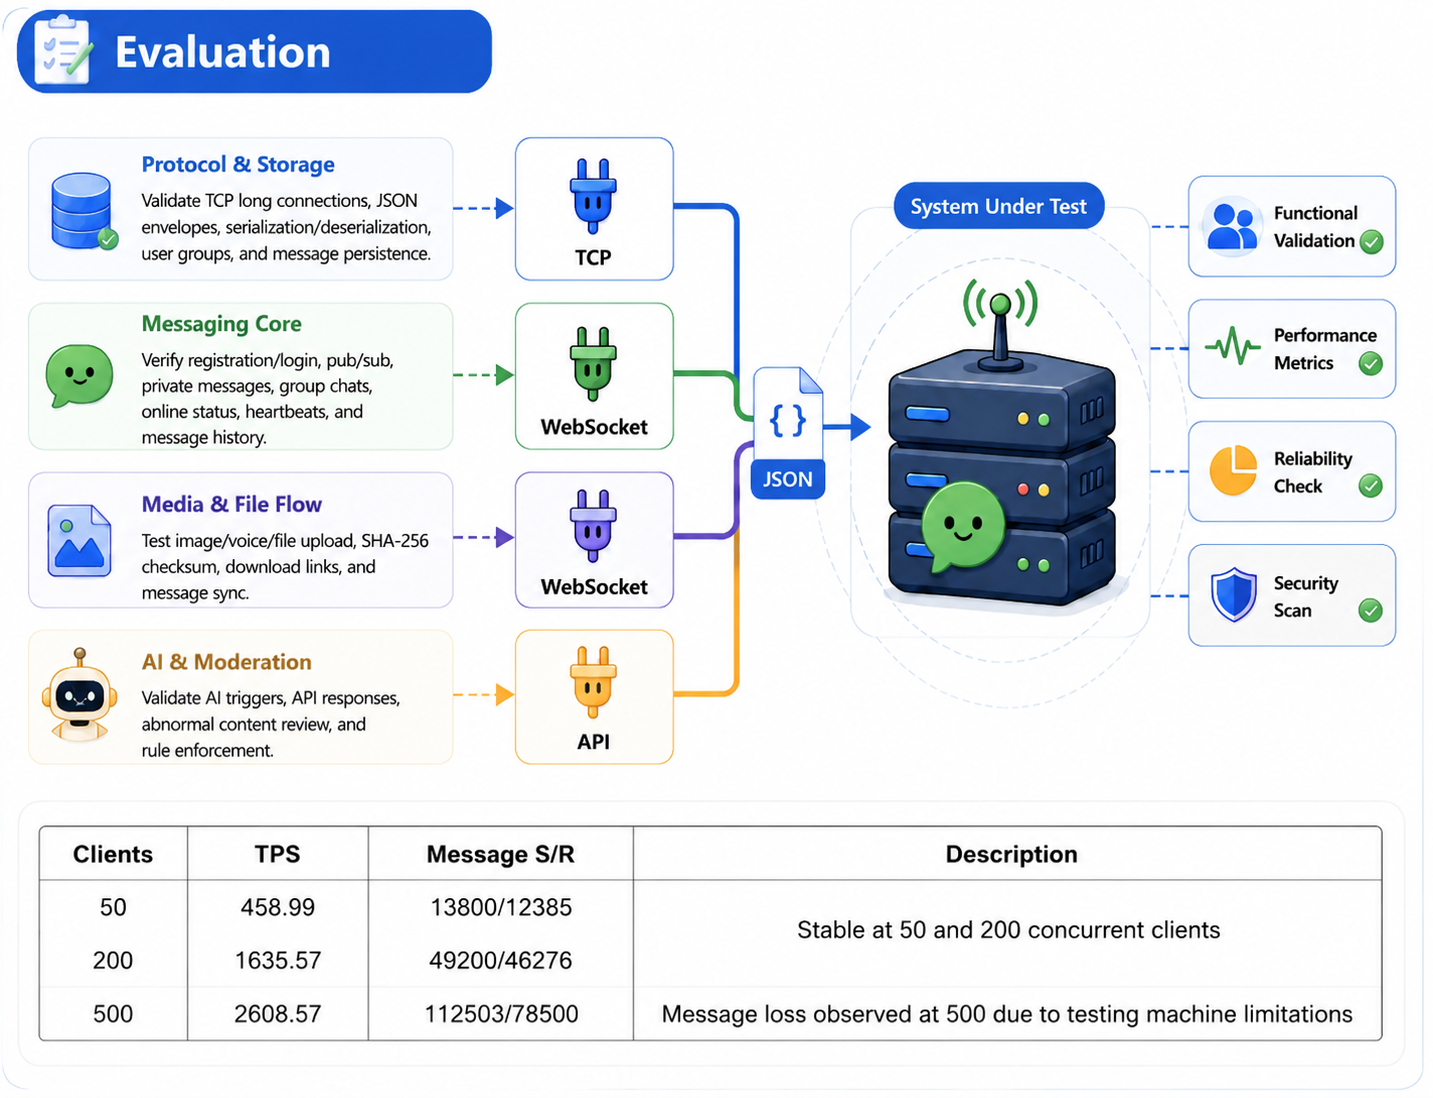
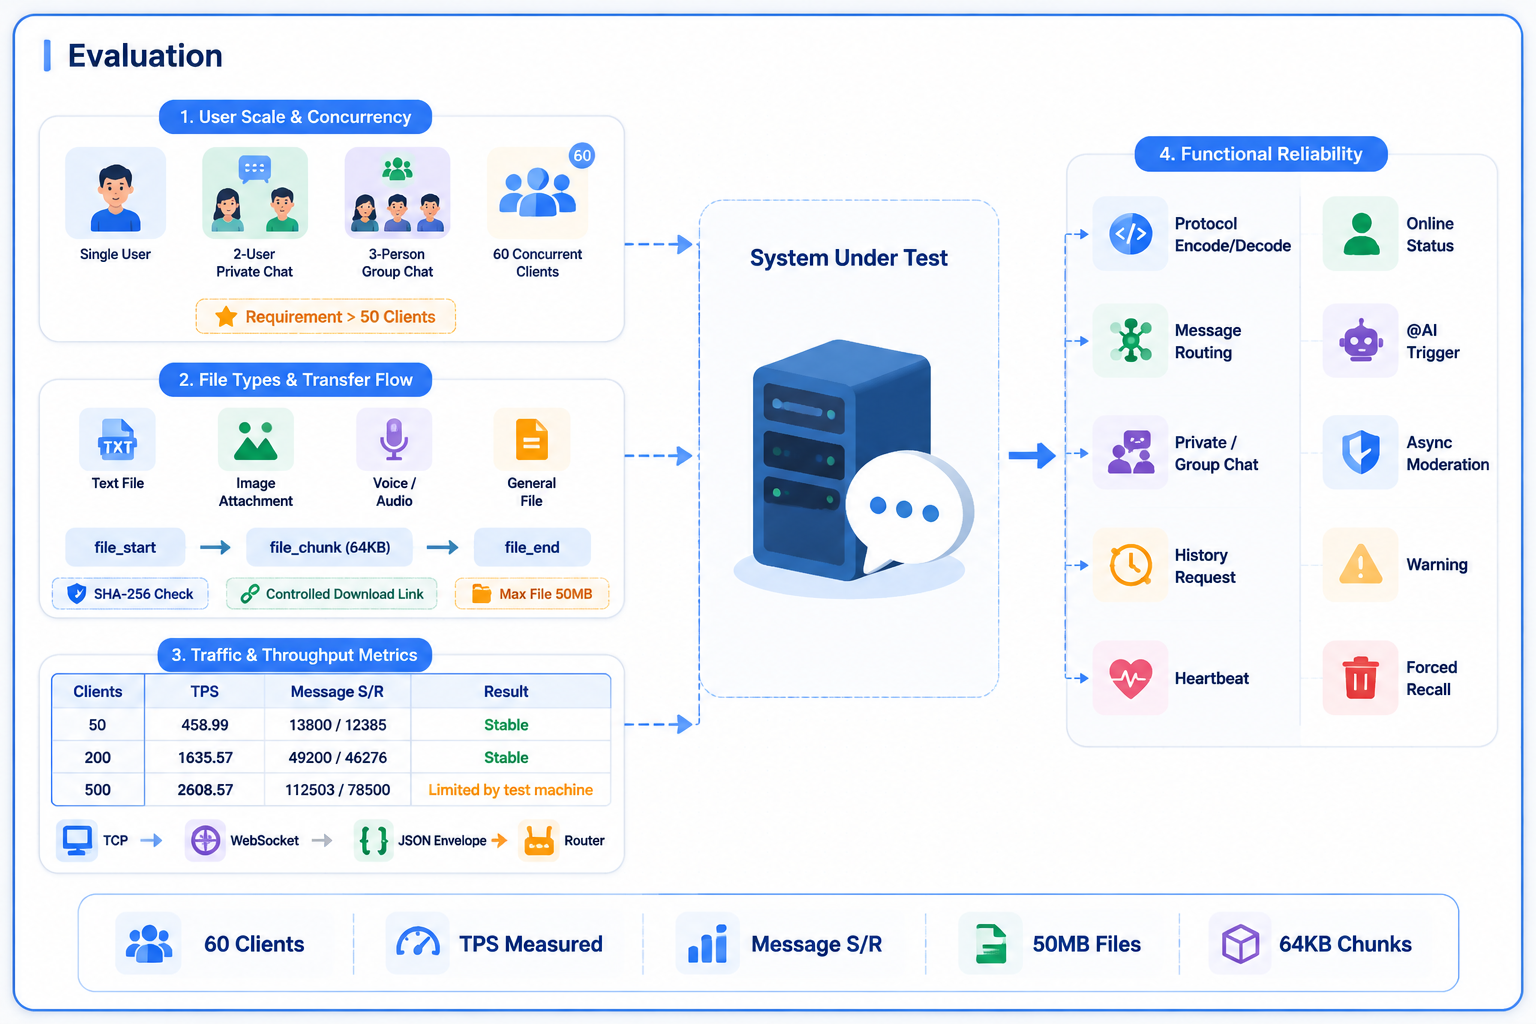
"update poster"

diff --git a/web/poster.html b/web/poster.html
@@ -35,9 +35,9 @@
 
     .poster {
       width: 1180px;
-      height: 2000px;
+      height: 1900px;
       display: grid;
-      grid-template-rows: 140px 10px 410px 435px 435px 555px 70px;
+      grid-template-rows: 116px 10px 434px 435px 435px 455px 70px;
       gap: 0;
       padding: 0 24px 24px;
       background: linear-gradient(180deg, #173f4b 0%, #25636f 46%, #1f5360 100%);
@@ -58,7 +58,7 @@
     h1 {
       margin: 0 0 8px;
       font-family: "SimSun", "Microsoft YaHei", serif;
-      font-size: 42px;
+      font-size: 41px;
       line-height: 1.12;
       letter-spacing: 0;
       font-weight: 900;
@@ -67,8 +67,8 @@
     }
 
     .subtitle {
-      margin: 0 0 9px;
-      font-size: 17px;
+      margin: 0;
+      font-size: 21px;
       font-weight: 800;
       color: #f5f8fb;
     }
@@ -369,7 +369,7 @@
     }
 
     .evaluation-visual {
-      height: 395px;
+      height: 315px;
       object-fit: contain;
     }
 
@@ -459,10 +459,10 @@
       .poster {
         position: absolute;
         top: 0;
-        left: 48.9mm;
+        left: 35.8mm;
         width: 1180px;
-        height: 2000px;
-        transform: scale(1.5893);
+        height: 1900px;
+        transform: scale(1.673);
         transform-origin: top left;
         box-shadow: none;
       }
@@ -474,7 +474,6 @@
     <header>
       <h1>基于 TCP 与 AI API 的分布式即时聊天系统设计</h1>
       <p class="subtitle">AI-WeChat: Multi-platform Real-time Chat with Unified Relay, AI Assistant and Moderation</p>
-      <p class="meta">代码库逻辑抽象：客户端入口 → 帧协议传输 → 统一中继 → 消息路由 → 数据持久化 / AI / 审核 / 文件服务</p>
     </header>
     <div class="stripe"></div>
 
@@ -547,7 +546,7 @@
       <article class="panel">
         <span class="tag">5</span>
         <h2>Evaluation: 模块测试与系统验证</h2>
-        <p class="role">从单元测试、集成测试到 60 客户端并发压力测试，验证协议、路由、文件、AI 与审核链路的稳定性。</p>
+        <p class="role">围绕用户规模、文件类型、消息吞吐与收发比设计测试，验证多端并发、文件传输和 AI/审核链路。</p>
         <img class="module-visual evaluation-visual" src="poster-module-evaluation.jpg" alt="Evaluation and test coverage module illustration">
       </article>
 